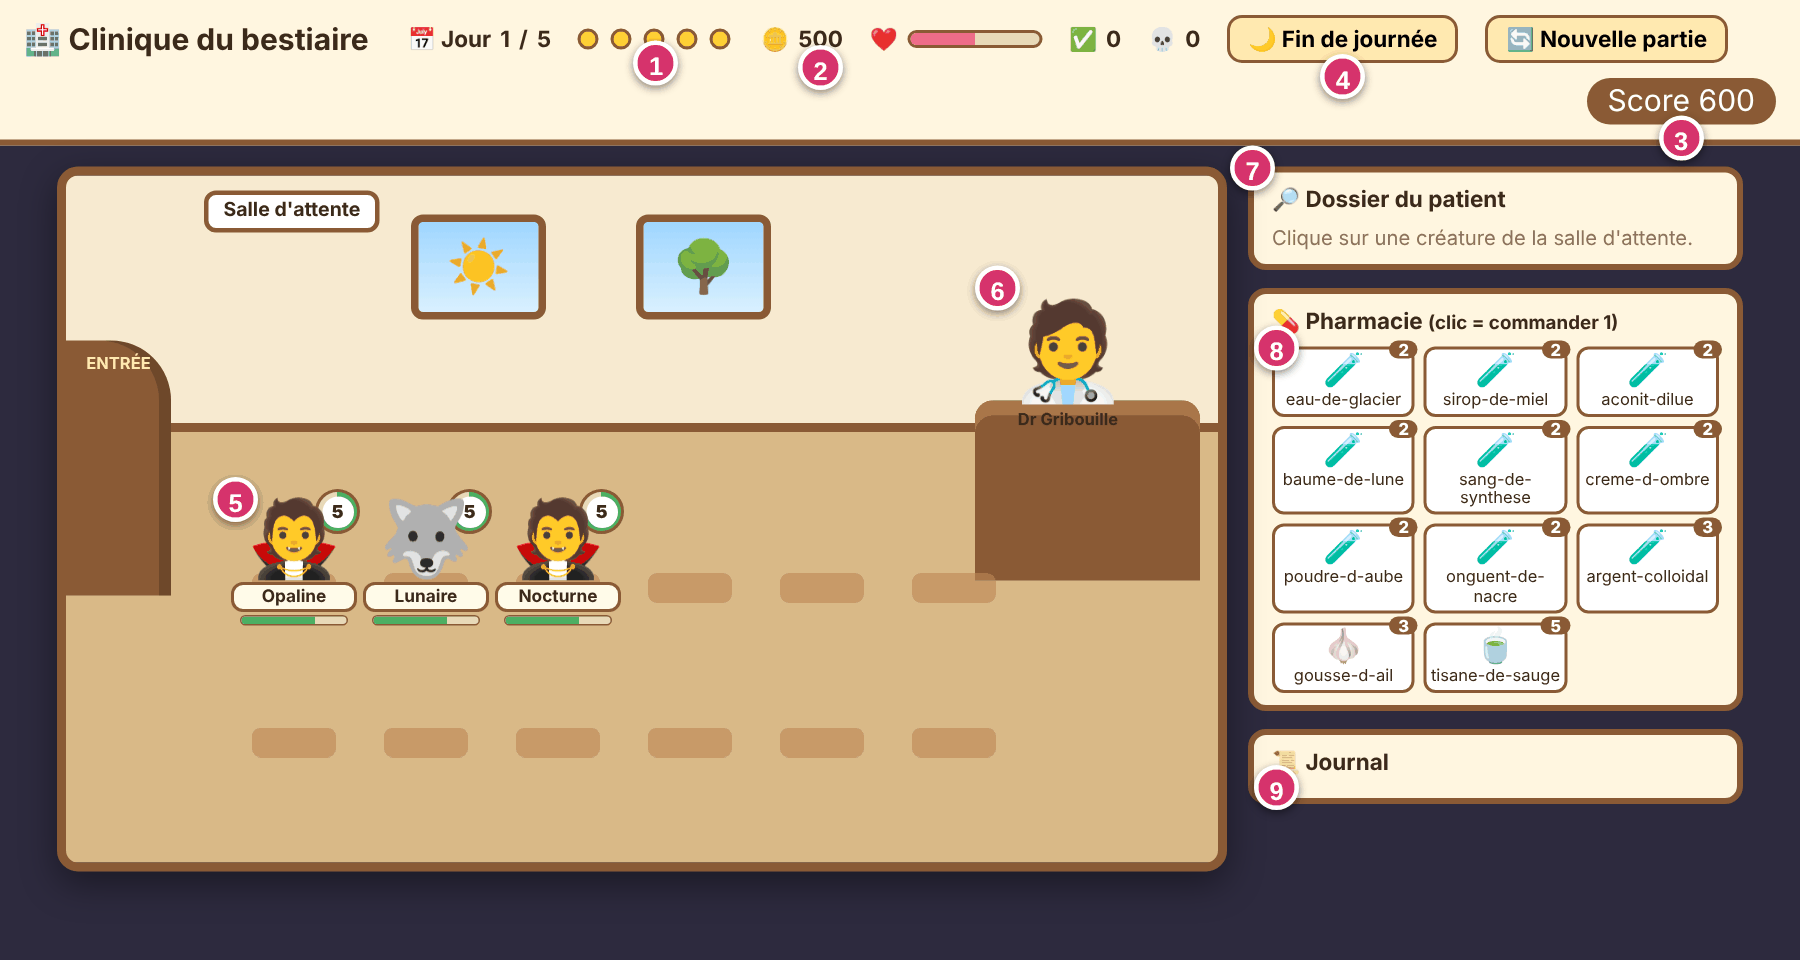
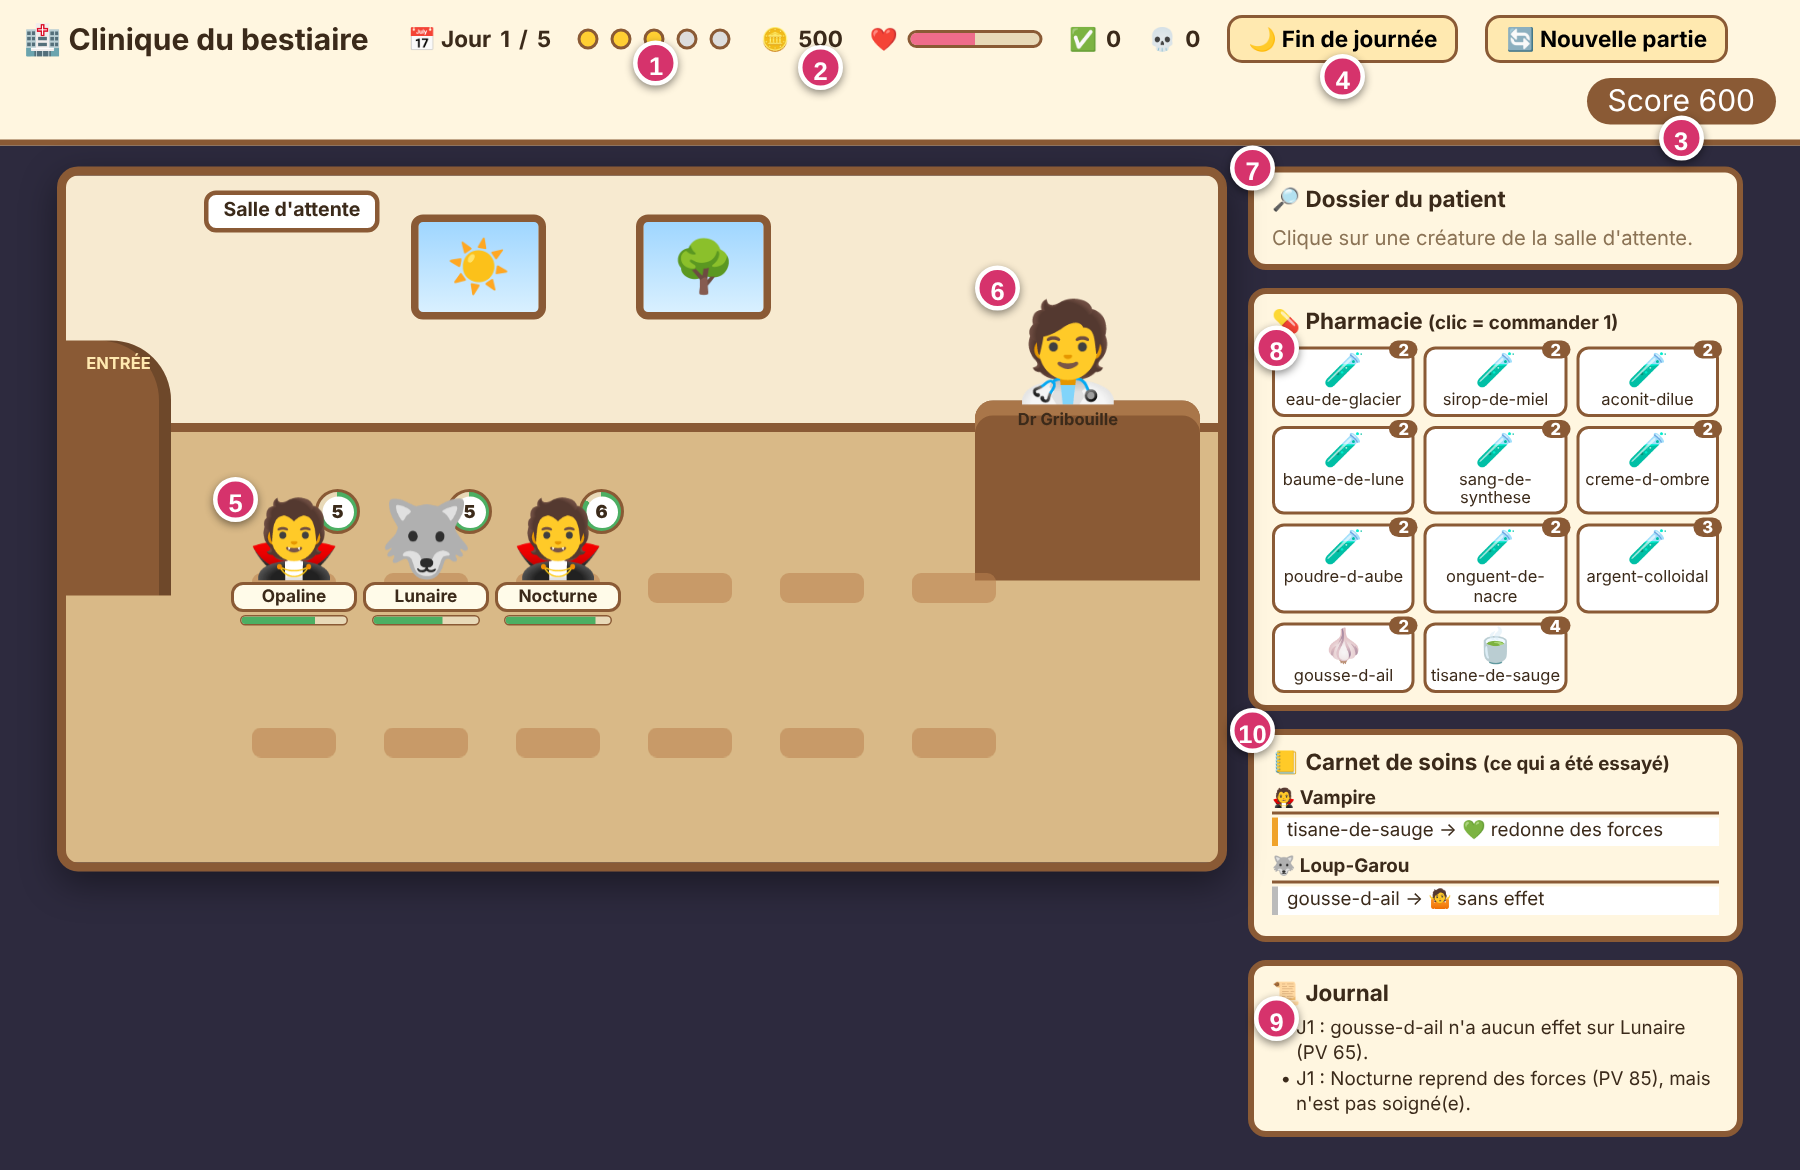
TD6 : capture du tableau de bord avec le carnet de soins (zone 10)
Claude-Session: https://claude.ai/code/session_01Fi7bHvyY4ATh2nHsacbkjR

diff --git a/supports/sujets/TD6-jeu-mcp.md b/supports/sujets/TD6-jeu-mcp.md
@@ -48,7 +48,7 @@ Avant de confier la blouse à Gribouille, **jouez vous-même** (étape 1). La pa
 
 ### Le tableau de bord, case par case
 
-![La page du jeu, avec ses neuf zones numérotées](img/jeu/jeu-vue-ensemble.png)
+![La page du jeu, avec ses dix zones numérotées](img/jeu/jeu-vue-ensemble.png)
 
 *Jour 1, avant la première consultation : trois patients attendent, aucun point d'action n'est encore dépensé.*
 
@@ -63,6 +63,7 @@ Avant de confier la blouse à Gribouille, **jouez vous-même** (étape 1). La pa
 | 7 | À droite, en haut | Le **dossier du patient** (voir plus bas). |
 | 8 | À droite, au milieu | La **pharmacie** : un clic sur un flacon en commande un exemplaire. Le badge indique le stock (rouge s'il en reste un ou aucun), « +1 🚚 » une commande en route ; le survol affiche le prix et la description. |
 | 9 | À droite, en bas | Le **journal** : toutes les actions de la partie, la plus récente en premier. |
+| 10 | À droite, sous la pharmacie | Le **carnet de soins** : la mémoire de la clinique. Chaque soin donné y inscrit son effet (✅ guérit, ☠ toxique, 💚 redonne des forces, 🤷 sans effet), groupé par espèce. Il ne contient que ce que vous avez **essayé** : un agent le lit avec l'outil `carnet_soins`. |
 
 La page se rafraîchit toute seule chaque seconde : gardez-la ouverte pendant les étapes 3 à 6, vous regarderez votre agent soigner en direct, avec le même suspense qu'un match de football.
 
